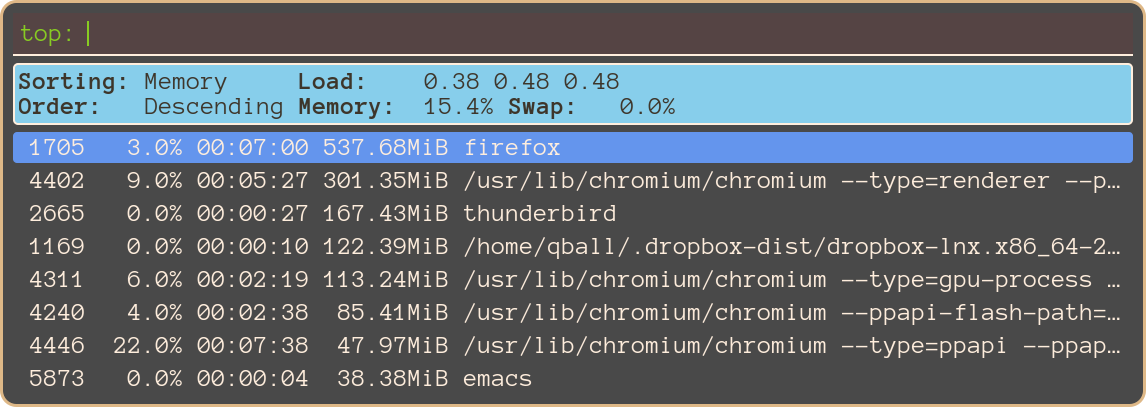
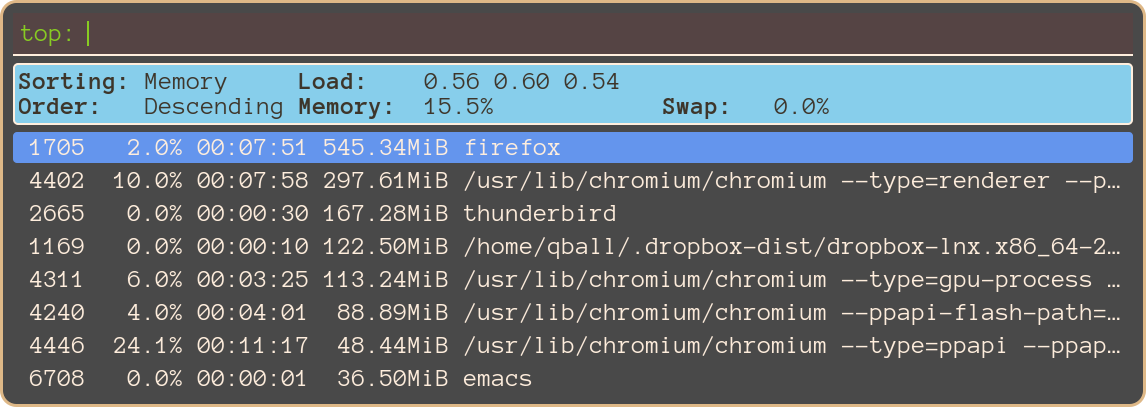
Update image + padding.

diff --git a/src/top.c b/src/top.c
@@ -346,7 +346,7 @@ static char * top_get_message ( const Mode *sw )
     glibtop_get_swap ( &sbuf );
     char *retv = g_markup_printf_escaped (
             "<b>Sorting:</b> %-10s <b>Load:</b>    %.2lf %.2lf %.2lf\n"\
-            "<b>Order:  </b> %-10s <b>Memory:</b> %5.1lf%% <b>Swap:</b> %5.1lf%%",
+            "<b>Order:  </b> %-10s <b>Memory:</b> %5.1lf%%            <b>Swap:</b> %5.1lf%%",
                 sorting_name[pd->sorting], buf.loadavg[0], buf.loadavg[1], buf.loadavg[2],
                 sorting_order_name[pd->sort_order], ((mbuf.used-mbuf.cached-mbuf.buffer)*100)/(double)mbuf.total,
                 (sbuf.total>0)?(((sbuf.used)*100)/(double)sbuf.total):0.0

diff --git a/README.md b/README.md
@@ -28,7 +28,7 @@ The following keybindings change sorting:
 
 Repeatingly selecting the entry will change sort order.
 
-
+The current setting is not stored between consecutive runs.
 ## Compilation
 
 ### Dependencies
